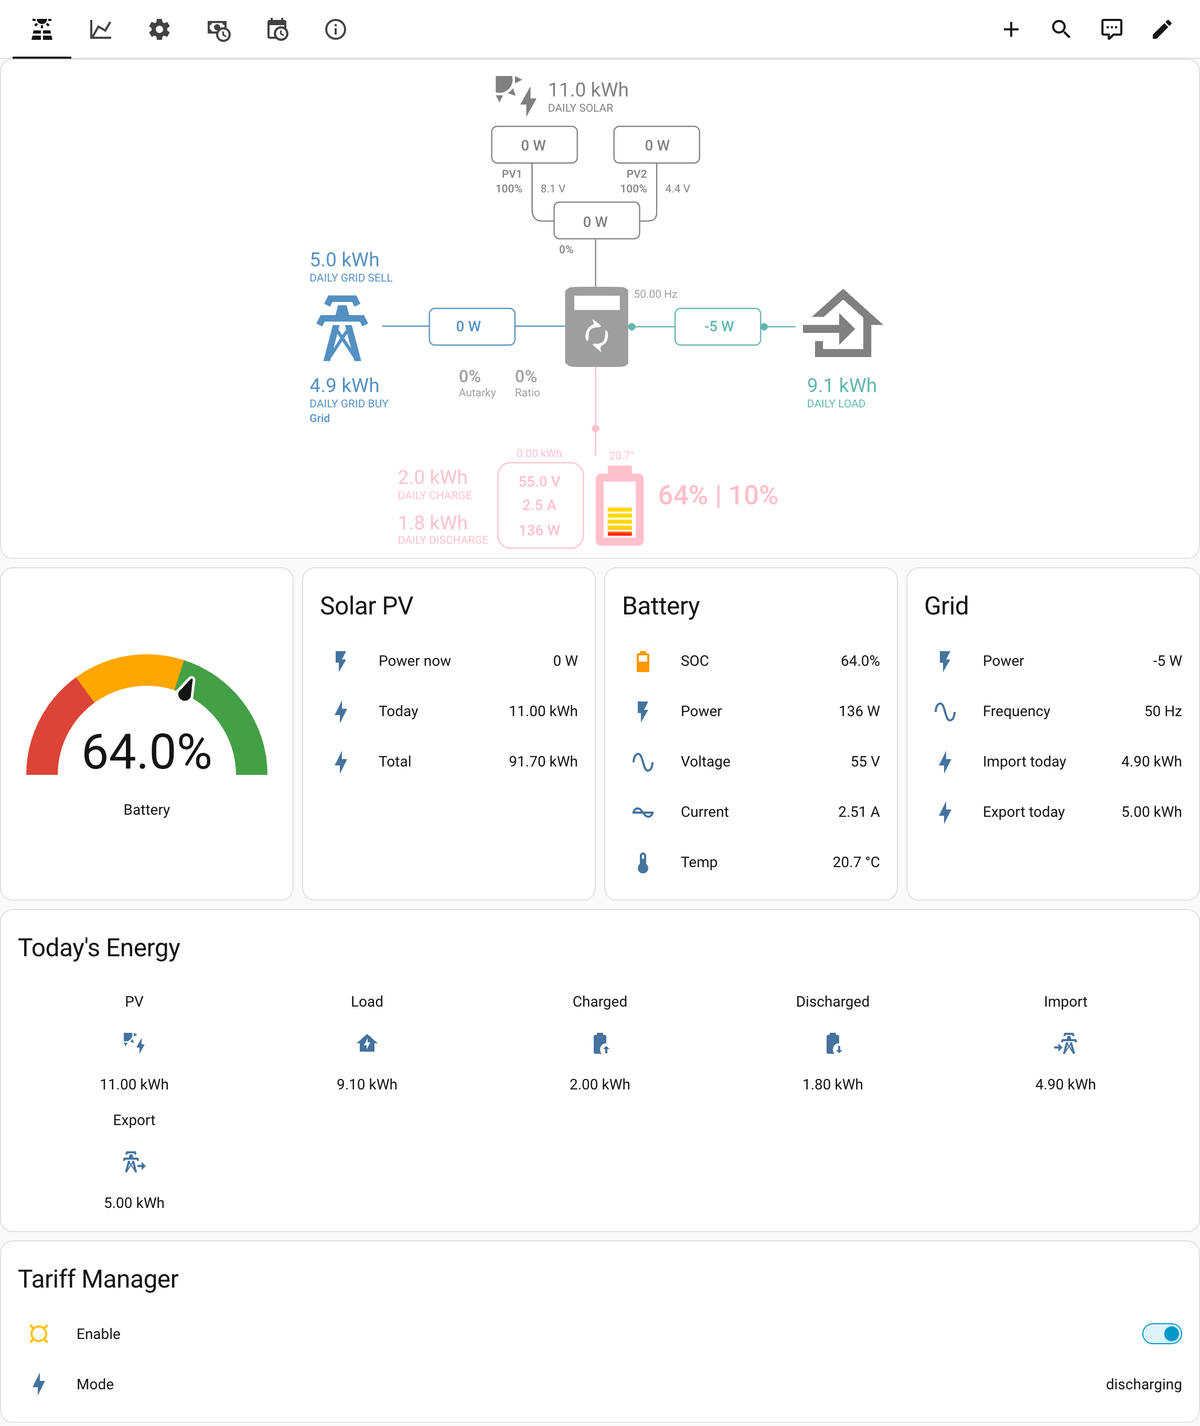
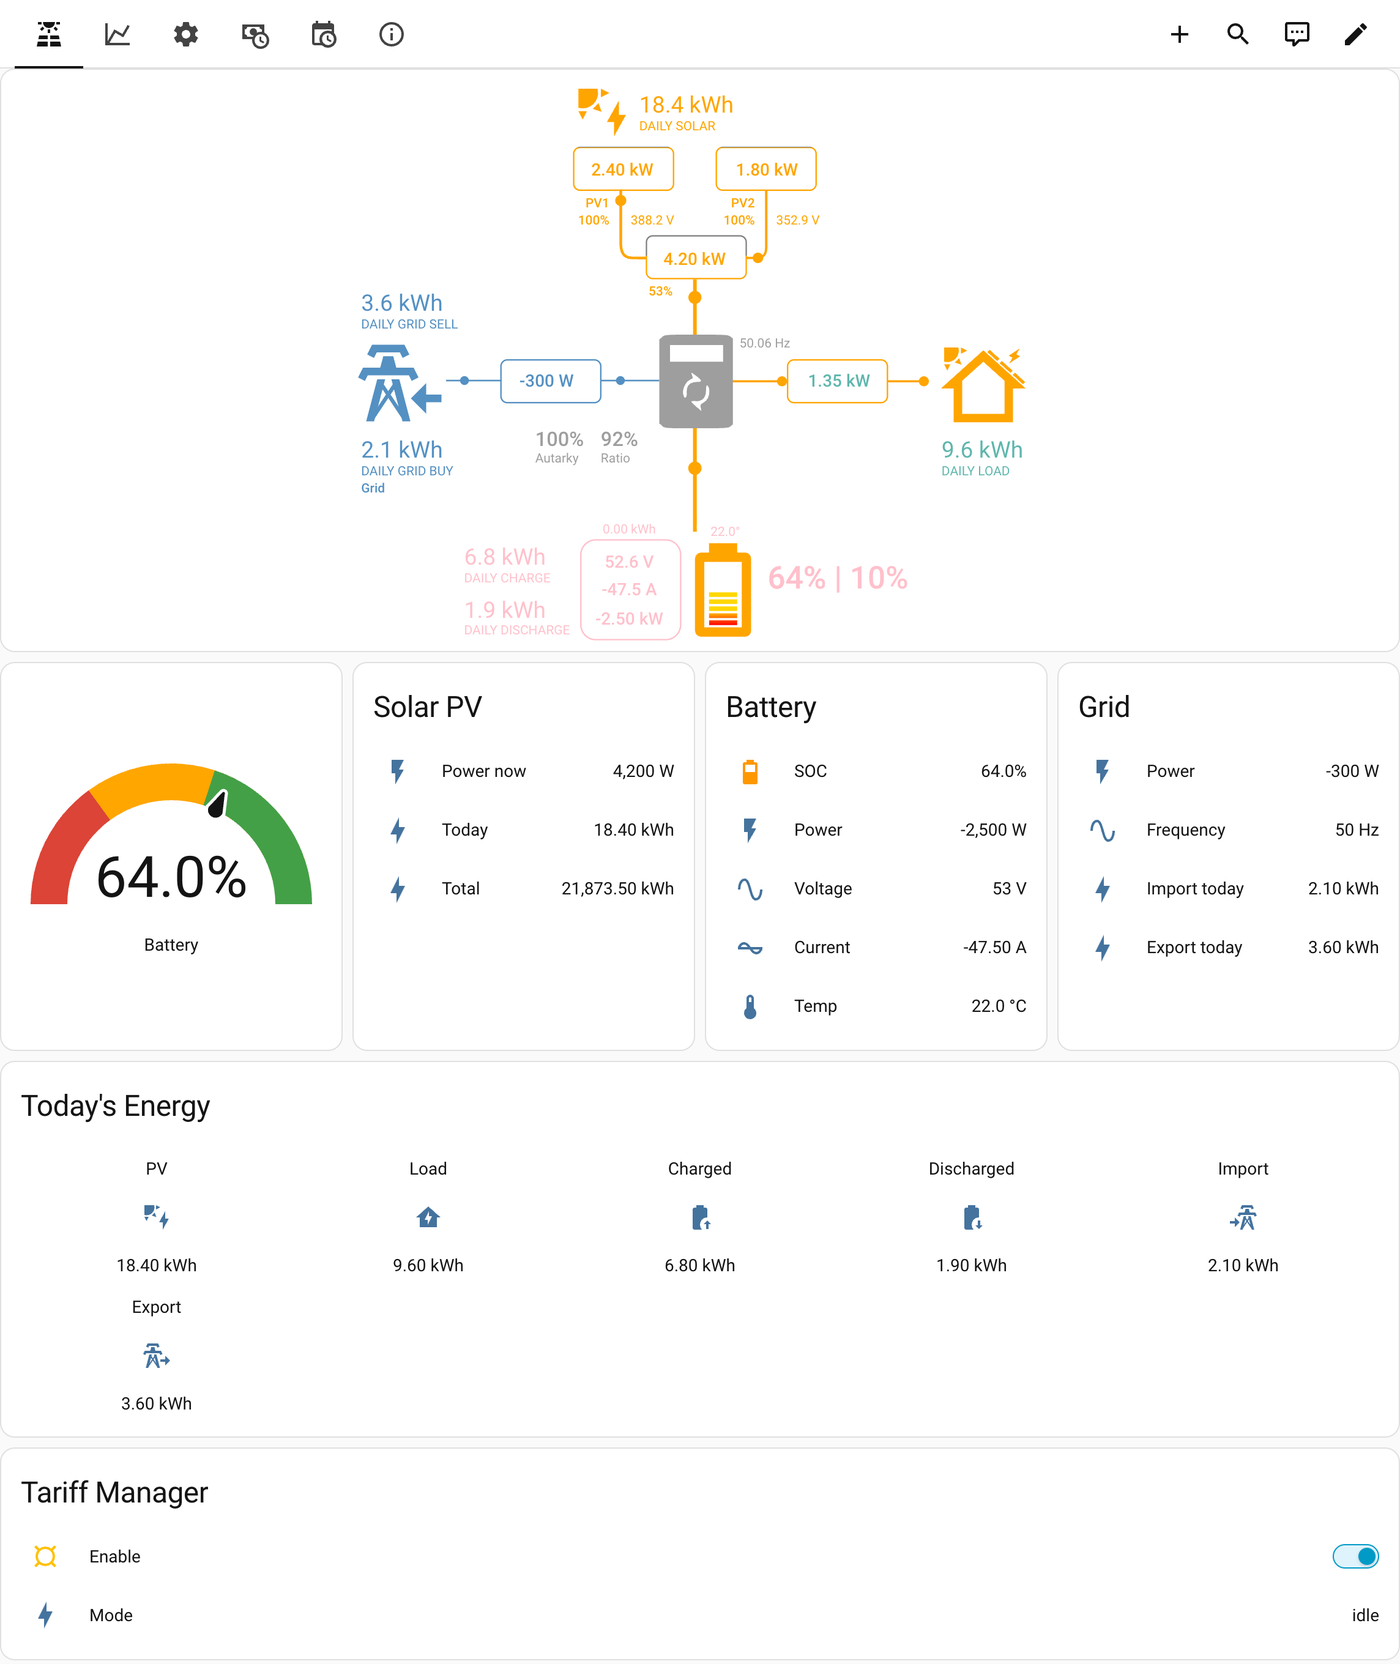
docs: new dashboard screenshots, with the power flow's house and grid and the price plan

diff --git a/README.md b/README.md
@@ -56,13 +56,13 @@ The difficult reports are what made the integration better.
 
 ### Screenshots
 
-*From a demo parallel pair (two 12 kW inverters), not a real installation.*
+*From demo systems, not a real installation.*
 
 The optional generated dashboard, with the bundled Sunsynk Power Flow Card:
 
 ![Generated dashboard: power flow, battery, solar, grid and Tariff Manager](docs/images/dashboard-overview.png)
 
-Tariff Manager's own tab, with every threshold and current editable in place:
+Tariff Manager's own tab, with every threshold and current editable in place, here in test mode with the price plan *(2.1)*:
 
 ![Tariff Manager tab](docs/images/dashboard-tariff.png)
 
